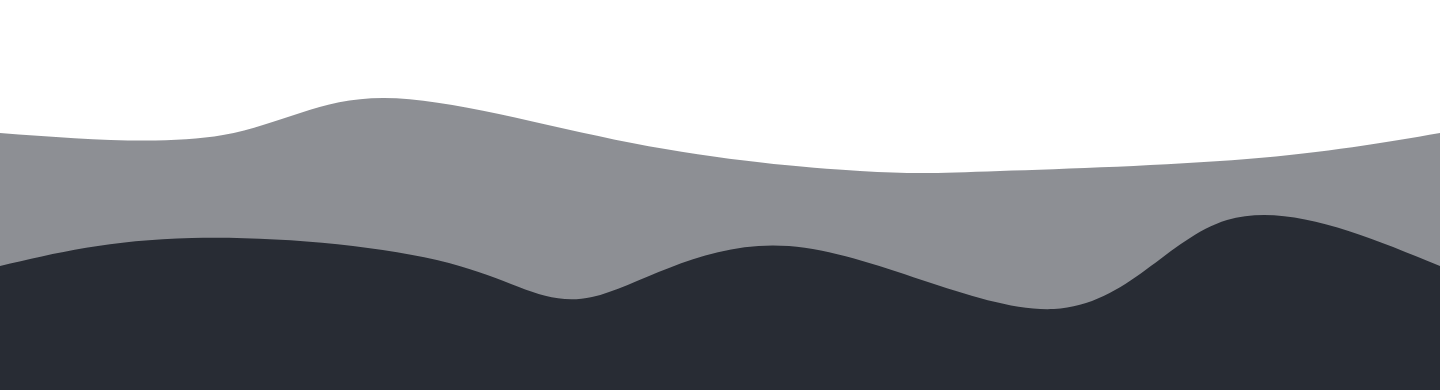
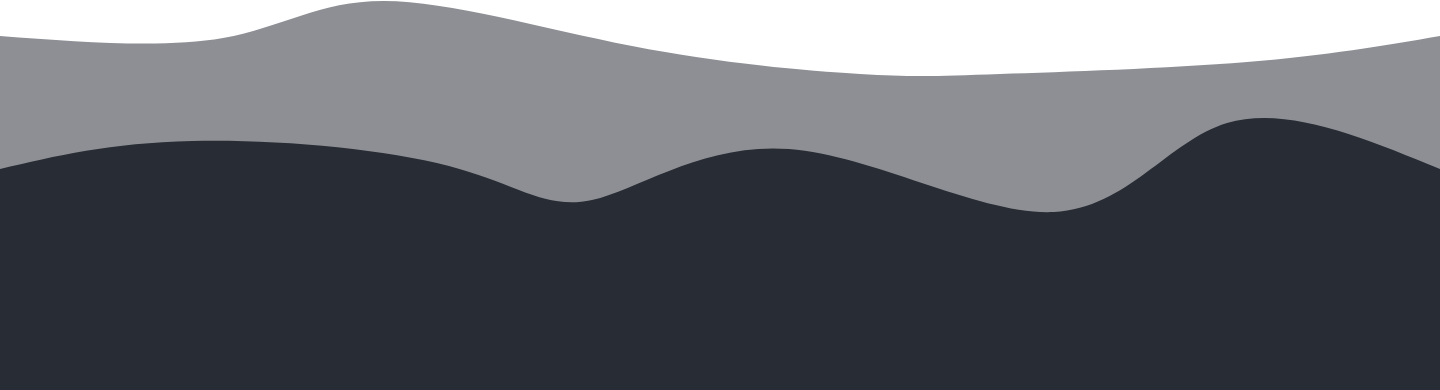
modo oscuro muy avanzado

diff --git a/public/jscript/main.js b/public/jscript/main.js
@@ -17,3 +17,17 @@ function mostrarMenu(){
 
 
 /*Estas funciones se usa para mostrar y ocultar el menu del media en el index*/
+
+function enableDarkMode() {
+    var theme = getCookieValue("theme");
+    if (theme == "dark") {
+    }
+}
+
+function getCookieValue(name) {
+    const regex = new RegExp(`(^| )${name}=([^;]+)`)
+    const match = document.cookie.match(regex)
+    if (match) {
+        return match[2]
+    }
+}

diff --git a/public/styles/darkIndex.css b/public/styles/darkIndex.css
@@ -3,7 +3,7 @@
 }
 
 #contenido, body {
-    background-color: #151518;
+    background-color: #151515;
 }
 
 #signUpButton {
@@ -34,4 +34,9 @@
 
 .contenedorPresentacion > div > p{
     color: rgb(175, 175, 175);
+}
+
+
+#background-video {
+    background-image: url("../resources/loadingVideoImageDark.jpg");
 }

diff --git a/public/styles/index.css b/public/styles/index.css
@@ -23,13 +23,11 @@ body {
 
 #wavesImage {
     width: 100vw;
-    height: 33vh;
-    object-fit: cover;
+    height: 40vh;
     position: absolute;
     left: 0;
     right: 0;
-    top: 68vh;
-    bottom: 0;
+    bottom: 0vh;
     z-index: -1;
 }
 

diff --git a/public/index.php b/public/index.php
@@ -30,12 +30,12 @@
     <?php }?>
 </head>
 
-<body>
+<body onload="enableDarkMode()">
     <video id="background-video" autoplay loop muted>
         <source src="resources/<?=$bgVid?>" type="video/mp4">
         <script>console.log(<?=$bgVid?>)</script>
     </video>
-    <img src="resources/indexWaves.png" id="wavesImage">
+    <img src="resources/<?=$wavesImage?>" id="wavesImage">
 
     <div id="contenedorImagen">
         <img src="resources/logo_completo.png" id="logoImage">

diff --git a/config/themes.php b/config/themes.php
@@ -4,6 +4,8 @@
 
     if($_COOKIE["theme"] == "dark") {
         $bgVid = "bg_2.mp4";
+        $loadingBgVid = "loadingVideoImageDark.jpg";
+        $wavesImage = "indexWavesDark.png";
     } else if($_COOKIE["theme"] == "light") {
         $bgVid = "bg_1.mp4";
     } 
